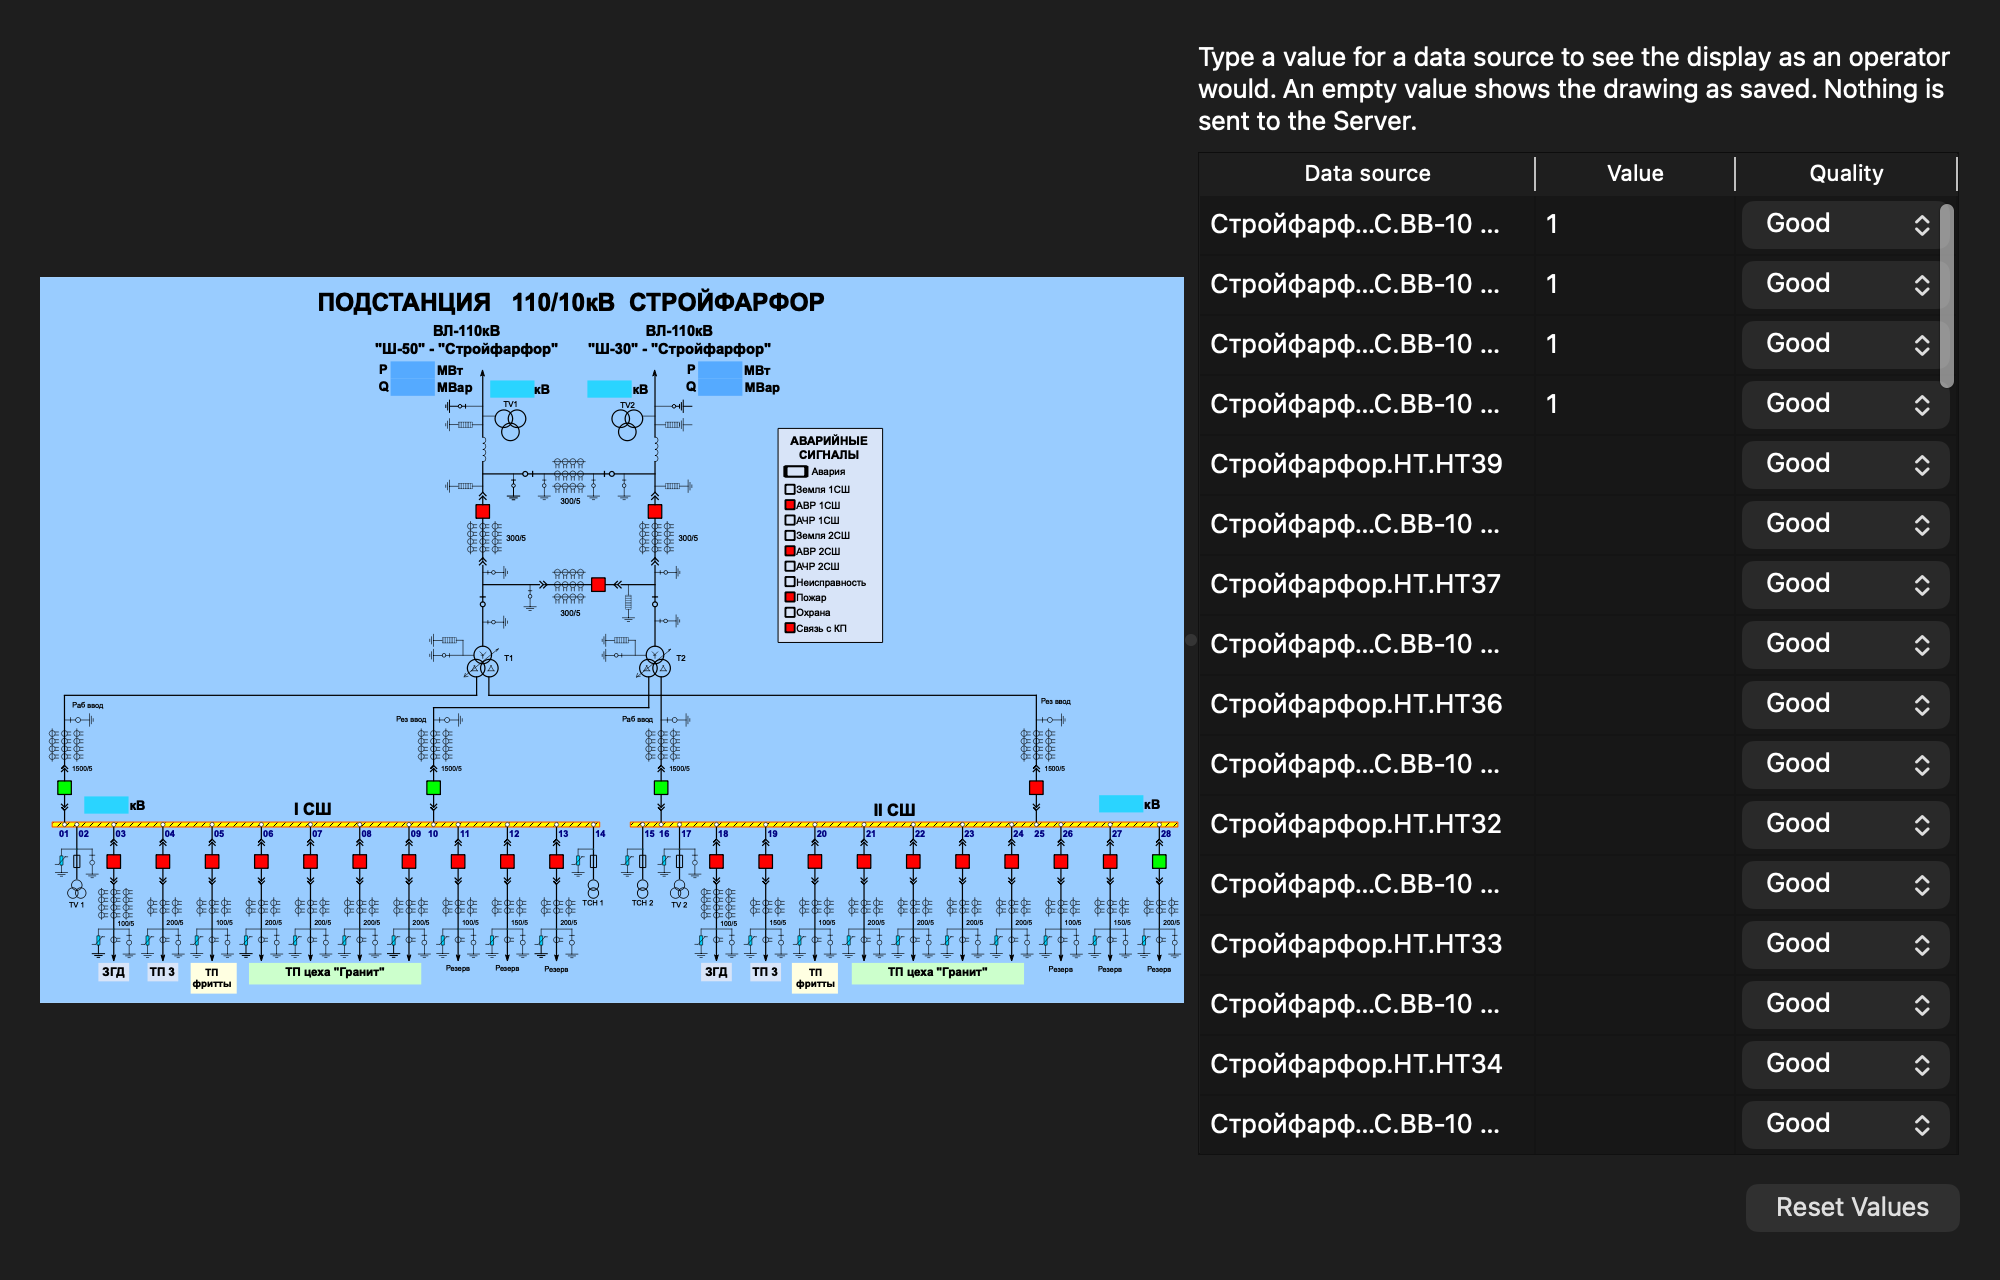
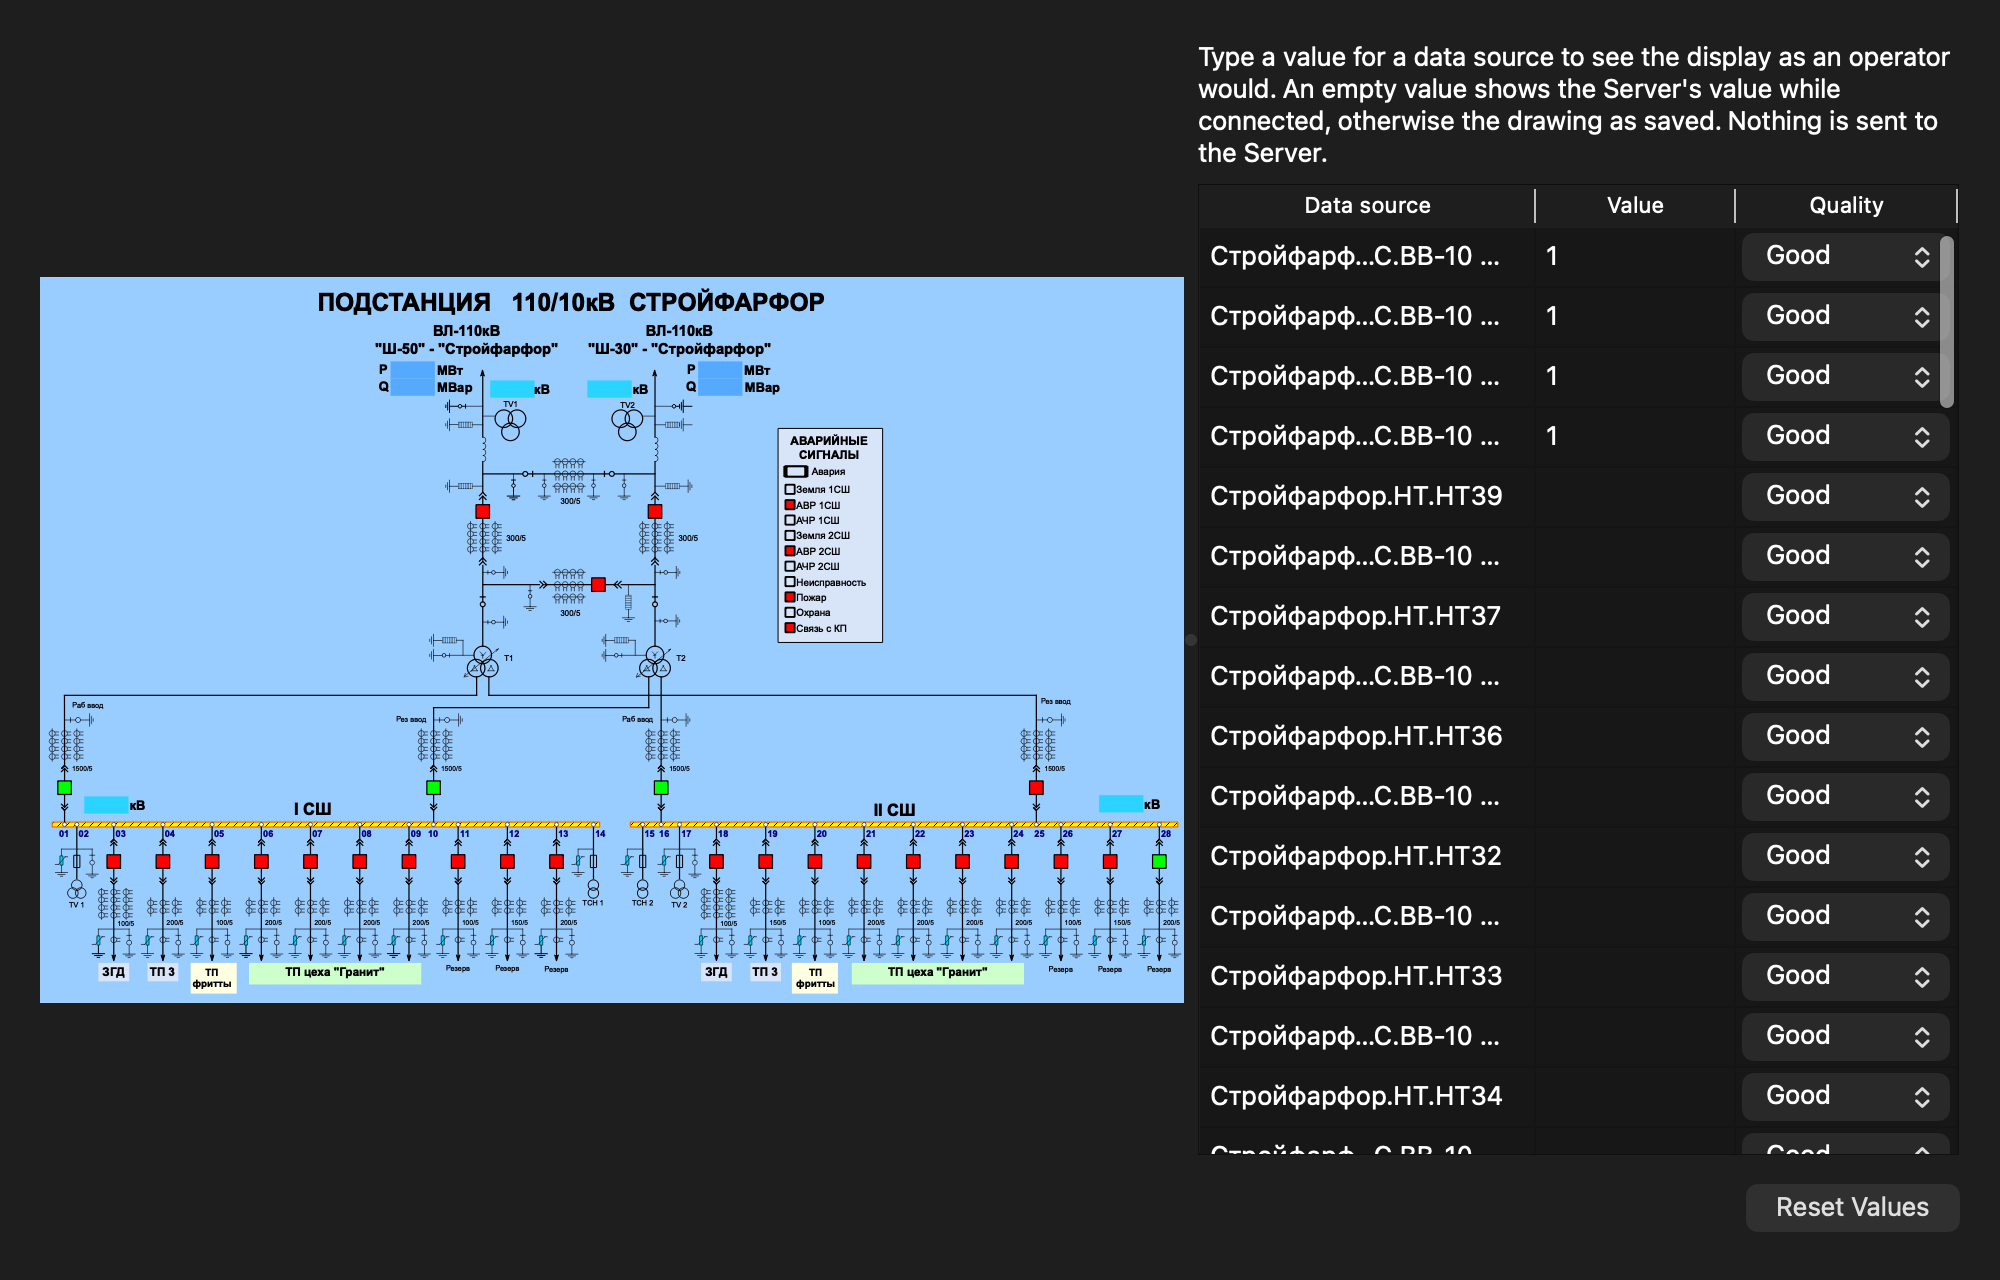
designer: live Preview from the Server (1146, Server link phase 3)
While the Designer is connected to a Server and the Preview window is
shown, the window watches every data source of the display and draws it
with the Server's values, as the Client's runtime would. A value typed in
the table overrides the live one until it is cleared; nothing is ever
written to the Server.

- server_link: ServerSession::Resolve (factored out of Describe), Watch /
  Unwatch / Poll over one open62541 subscription per watch (Value, 250 ms).
  A reading is value (Boolean as 1/0), text and StatusCode, as the
  Client's DisplayLiveData hands its runtime; an unresolvable reference
  reads Bad_NodeIdUnknown at once.
- editor/server_objects.h: ServerObjects::Watch, returning a ServerWatch
  whose destruction ends it, so the Preview never names the Server link.
- ServerConnection polls the session every 100 ms while connected, which
  also keeps the session alive, and reports a lost Server as a disconnect.
- PreviewModel keeps live readings beside typed ones; PreviewWindow adds a
  Server column (shown only while connected) and watches only while shown.
- designer_server_probe --watch <s> prints the readings.

Tests: the session watches the fixture server's alias and node id string
and sees a change, and an unknown reference; the connection delivers
readings on the UI thread and stops when the watch is destroyed; the model
lets a typed value override the live one and survive a reload; the window
watches when shown and connected, shows the reading, and lets go when
[…]

Changed region(s): [[0.589, 0.0625, 0.992, 0.9062], [0.961, 0.2812, 0.992, 0.3125]]

diff --git a/dev/designer/view.md b/dev/designer/view.md
@@ -85,8 +85,15 @@ permalink: /dev/designer/view/
 зеленым при значении 1. Пустое значение возвращает фигуру к виду, с которым
 схема сохранена; *Сбросить значения* очищает все.
 
+Пока Дизайнер подключен к Серверу (*Сервис — Подключиться к Серверу...*),
+окно показывает схему с текущими значениями Сервера: столбец *Сервер*
+показывает значение каждого источника, а фигуры принимают соответствующий
+вид. Введенное значение заменяет значение Сервера, пока его не сотрут, —
+так можно проверить, как схема покажет аварию, не трогая оборудование.
+Источник, которого на Сервере нет, отмечен «Нет на Сервере».
+
 Окно только показывает: схему в нем не изменить, а введенные значения
-никуда не отправляются. Оно следует за правками в окне схемы и за
+никуда не отправляются — Дизайнер ничего не записывает на Сервер. Оно следует за правками в окне схемы и за
 переключением между схемами, введенные значения при этом сохраняются. Если
 ни одна строка *Tag* не называет источник данных, окно так и скажет.
 
@@ -101,7 +108,7 @@ permalink: /dev/designer/view/
 | Привязка к сетке | притягивать края фигур к сетке |
 | Привязка к направляющим | притягивать к направляющим |
 | Привязка к делениям линейки | притягивать к делениям линейки (выключена по умолчанию) |
-| Просмотр (`F5`) | показать схему со введенными значениями, как ее нарисует Клиент ([Просмотр](#preview)) |
+| Просмотр (`F5`) | показать схему со значениями Сервера или введенными, как ее нарисует Клиент ([Просмотр](#preview)) |
 
 Там же — масштаб, панели и строка формул, язык, стиль и визуализатор
 (смотрите [Окно Дизайнера]({{ '/dev/designer/' | relative_url }}#settings)).
@@ -109,7 +116,8 @@ permalink: /dev/designer/view/
 ## Меню «Сервис» {#tools-menu}
 
 *Сервис — Подключиться к Серверу...* и *Отключиться от Сервера* открывают
-и закрывают соединение для панели [Тэги]({{ '/dev/designer/properties/' | relative_url }}#server-tags).
+и закрывают соединение для панели [Тэги]({{ '/dev/designer/properties/' | relative_url }}#server-tags)
+и для значений Сервера в окне [Просмотр](#preview).
 
 ### Линейка и сетка {#ruler-grid}
 

diff --git a/en/dev/designer/view.md b/en/dev/designer/view.md
@@ -86,8 +86,16 @@ that value at once — a breaker turns green at 1, for example. An empty value
 returns a shape to the look the schematic was saved with; *Reset Values*
 clears them all.
 
+While the Designer is connected to a Server (*Tools — Connect to
+Server...*), the window shows the schematic with the Server's current
+values: the *Server* column shows each source's value, and the shapes take
+the look it gives them. A typed value replaces the Server's until it is
+cleared — a way to check how the schematic will show an alarm without
+touching the plant. A source the Server does not have is marked "Not on the
+Server".
+
 The window only shows: the schematic cannot be changed in it, and the values
-typed are sent nowhere. It follows edits in the schematic window and
+typed are sent nowhere — the Designer writes nothing to the Server. It follows edits in the schematic window and
 switching between schematics, keeping the values typed. If no *Tag* row names
 a data source, the window says so.
 
@@ -102,7 +110,7 @@ a data source, the window says so.
 | Snap to Grid | snap shape edges to the grid |
 | Snap to Guides | snap to guides |
 | Snap to Ruler Subdivisions | snap to the ruler's divisions (off by default) |
-| Preview (`F5`) | show the schematic with typed-in values, as the Client will draw it ([Preview](#preview)) |
+| Preview (`F5`) | show the schematic with the Server's or typed-in values, as the Client will draw it ([Preview](#preview)) |
 
 The same menu holds the zoom, the panels and the Formula bar, and the
 language, style and renderer (see
@@ -111,7 +119,8 @@ language, style and renderer (see
 ## The Tools menu {#tools-menu}
 
 *Tools — Connect to Server...* and *Disconnect from Server* open and close
-the connection for the [Tags]({{ '/en/dev/designer/properties/' | relative_url }}#server-tags) panel.
+the connection for the [Tags]({{ '/en/dev/designer/properties/' | relative_url }}#server-tags) panel
+and for the Server's values in the [Preview](#preview) window.
 
 ### Ruler & Grid {#ruler-grid}
 
